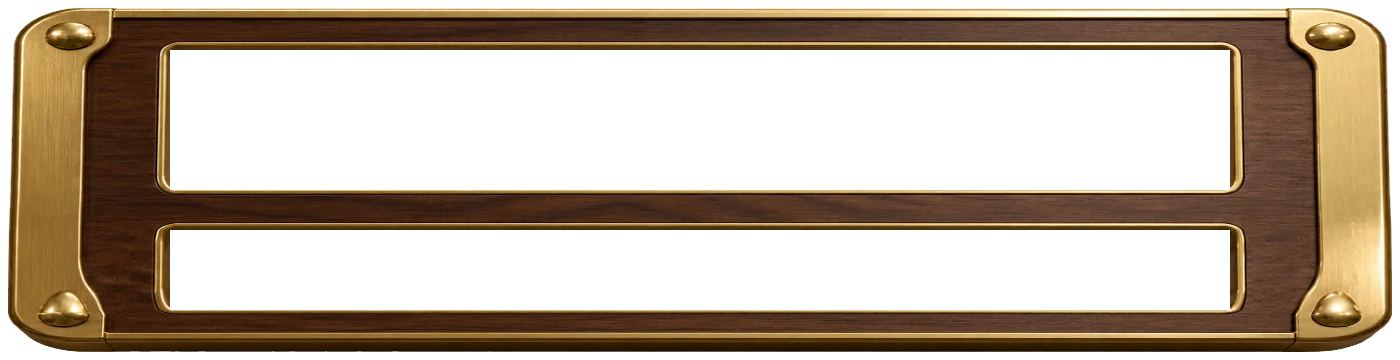
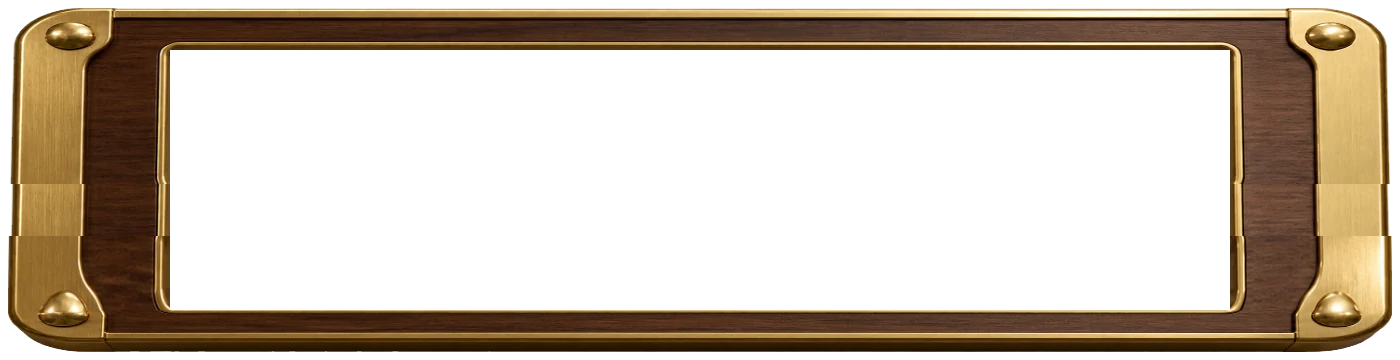
In play: cue follow-through, a raised cue that looks raised, view keys, one-channel gauge, dial clicks
- After the hit the cue carries on through where the ball was for a moment, then is
  lifted away; a raised cue stops above the cloth.
- From above, a raised cue (masse, jump) is now really raised in perspective - its butt
  nearer the eye and wider - only shortened so it stays near the table; its shadow
  falls away and fades.
- Under the 3D knob: 2D (straight down) and the player's eye (low behind the cue ball,
  following the aim; dragging turns it into the free look).
- The gauge's two windows are one: the lit meter fills it and the cue lies in it with
  its chalked tip in view. The fine-aim drum is taller and clicks for every ridge.

Claude-Session: https://claude.ai/code/session_01DzxiQebW6t4iT9hZUZYbBt

Changed region(s): [[0.0921, 0.4889, 1.0, 0.6722], [0.0, 0.4889, 0.0614, 0.6722]]

diff --git a/web/scene.js b/web/scene.js
@@ -731,10 +731,12 @@ function createScene(canvas, app, PH) {
   }
   function orbitBy(dx, dy) {
     if (!orbit.on) return;
+    if (orbit.cam && orbit.cam.eye) { orbit.az = orbit.cam.az - (portrait ? -Math.PI / 2 : 0); orbit.zoom = 0.8; orbit.cam = null; if (onFree) onFree(); }   // (dragging the view leaves the player's eye for a free look)
     orbit.az -= dx * 0.0034; orbit.elTo = orbit.el = Math.max(0.3, Math.min(1.42, orbit.el + dy * 0.0028)); orbit.live = 4; applyCamera();
   }
   // A camera placed by a script (the highlight reel): az is the compass direction the camera sits in, el its height angle,
   // zoom < 1 is closer than "whole table in view", and it looks at the table point (tx, ty).
+  let onFree = null;
   function setCam(c) { orbit.on = true; orbit.cam = c; orbit.el = orbit.elTo = c.el; orbit.live = 4; applyCamera(); }
   // where table points are on the screen, in pixels from the top-left of the game area (for overlays drawn on top of the
   // 3D picture): call begin() once, then at() for each point, which says whether the point is in front of the camera
@@ -895,20 +897,25 @@ function createScene(canvas, app, PH) {
     const c = w.balls[w.cue];
     if (trailTick(c, R, dt)) dirty = Math.max(dirty, 2);
     cue.visible = cueShadow.visible = v.showCue && c.on; guide.visible = v.showGuide && c.on;
+    // the follow-through after a hit: the cue is drawn from where the ball was struck, carrying on past it (v.follow)
+    const fo = v.follow; if (fo) { cue.visible = cueShadow.visible = !!v.showCue; guide.visible = false; }
     if (cue.visible) {
-      const dx = Math.cos(v.aim), dy = Math.sin(v.aim);
+      const dx = Math.cos(v.aim), dy = Math.sin(v.aim), cx0 = fo ? fo.x : c.x, cy0 = fo ? fo.y : c.y, pullV = fo ? fo.pull : v.pull, spinV = fo ? fo.spin : v.spin;
       // raised for a masse or a jump: the butt comes up and the tip comes down onto the top of the ball
-      const e = v.el || 0, ce = Math.cos(e), se = Math.sin(e);
-      const tx = c.x - dx * ce * (R + v.pull), ty = c.y - dy * ce * (R + v.pull);
+      const e = fo ? fo.el : v.el || 0, ce = Math.cos(e), se = Math.sin(e);
+      const tx = cx0 - dx * ce * (R + pullV), ty = cy0 - dy * ce * (R + pullV);
       // Seen from straight above, a cue that is really tilted leans away across the picture (the butt is much nearer the eye),
       // so there it is drawn lying flat and shortened, the way it would look with no perspective; in the 3D views it is truly raised.
       // The cue is drawn at its angle with a small lean for looks (the ordinary stroke is a level 0), and moved sideways and
       // up or down, staying parallel, to the point on the ball that the spin setting says it strikes.
-      const off = v.spin.x * 0.5 * R, lift = v.spin.y * 0.5 * R * ce, px = tx + dy * off, py = ty - dx * off;
-      if (orbit.on) { cue.scale.set(1, 1, 1); cue.position.set(px, py, R + lift + 0.002 + se * (R + v.pull)); cue.rotation.set(0, -Math.min(Math.PI / 2, 0.085 + e), v.aim + Math.PI); }
-      else { cue.scale.set(Math.max(0.16, ce), 1, 1); cue.position.set(px, py, R + lift + 0.002); cue.rotation.set(0, -0.085, v.aim + Math.PI); }
-      const sx = px - dx * 0.735 * ce + 0.012, sy = py - dy * 0.735 * ce - 0.014;
-      cueShadow.position.set(sx, sy, 0.0012); cueShadow.rotation.z = v.aim; cueShadow.scale.set(1.47 * Math.max(0.12, ce), 0.022, 1);
+      const off = spinV.x * 0.5 * R, lift = spinV.y * 0.5 * R * ce, px = tx + dy * off, py = ty - dx * off;
+      // From above, a raised cue is raised too, in true perspective (the butt nearer the eye, so wider), only shortened so its
+      // butt stays within a third of a metre of the cloth; its shadow lies on the cloth below and falls away from it.
+      const kl = orbit.on || e < 0.03 ? 1 : Math.min(1, 0.32 / (1.47 * se));
+      if (orbit.on || e >= 0.03) { cue.scale.set(kl, 1, 1); cue.position.set(px, py, R + lift + 0.002 + se * (R + pullV)); cue.rotation.set(0, -Math.min(Math.PI / 2, (e < 0.03 ? 0.085 : 0) + e), v.aim + Math.PI); }
+      else { cue.scale.set(1, 1, 1); cue.position.set(px, py, R + lift + 0.002); cue.rotation.set(0, -0.085, v.aim + Math.PI); }
+      const half = 0.735 * kl * ce, sx = px - dx * half + 0.012 + 0.025 * se, sy = py - dy * half - 0.014 - 0.025 * se;
+      cueShadow.position.set(sx, sy, 0.0012); cueShadow.rotation.z = v.aim; cueShadow.scale.set(1.47 * kl * Math.max(0.12, ce), 0.022 * (1 + 0.5 * se), 1); cueShadow.material.opacity = 0.22 * (1 - 0.55 * se);   // (a raised cue's shadow is fainter)
     }
     if (guide.visible) {
       const gl = v.level, chosen = v.power > 0;
@@ -1007,6 +1014,7 @@ function createScene(canvas, app, PH) {
   }
 
   return {
+    set onFreeLook(f) { onFree = f; }, get eyeView() { return !!(orbit.cam && orbit.cam.eye); },
     setTable, setCloth, setCue, setBalls, setTrail, ballPortrait, setBackdrop, setZone, setMarks, fly, setOrbit, setCam, proj, orbitBy, zoomBy, get orbiting() { return orbit.on; }, setInsets, tableRect, tableOutline, setDeskLight, setQuality, resize, toTable, frame, fall,
     invalidate() { dirty = 3; }, clearFalls() { falls.length = 0; fallEvents.length = 0; dirty = 3; }, fallEvents, get ppm() { return ppm; }, get portrait() { return portrait; }, get falling() { return falls.length > 0; },
     get pixelRatio() { return renderer.getPixelRatio(); },

diff --git a/web/head.html b/web/head.html
@@ -1319,6 +1319,25 @@ button:focus-visible,input:focus-visible{outline:2px solid var(--acc);outline-of
 #app.desk .dk-card{box-shadow:inset 0 -5px 0 -1px var(--rc)}
 #app.desk .dk-card.r5{box-shadow:inset 0 -5px 0 -1px #ff8a5c}
 #app.desk .dk-card.r1::before{background:linear-gradient(to top,rgba(110,180,255,.85) 0%,rgba(110,180,255,.35) 30%,transparent 62%)}
+/* the power gauge, one channel: the lit meter fills the whole window and the cue lies in it, its chalked tip showing at
+   the top (the housing's two windows made one, ui/gauge*.webp) */
+#app.desk #power::before{inset:45px auto 45px 13px;width:70px}
+#app.desk #power::after{background:url(ui/gauge-glass.webp) 13px 45px/70px calc(100% - 90px) no-repeat}
+#app.desk #powerCue{left:50%;width:19px}
+#app.desk.portrait #power::before{inset:10px 34px auto 34px;height:52px;width:auto}
+#app.desk.portrait #power::after{background:url(ui/gauge-glass-h.webp) 34px 10px/calc(100% - 68px) 52px no-repeat}
+#app.desk.portrait #powerCue{top:50%;height:19px}
+/* the fine-aim drum, taller */
+#app.desk #fine{height:380px;margin-top:-190px}
+#app.desk.compact:not(.portrait) #fine{height:260px;margin-top:-130px}
+/* the view keys under the 3D knob: straight down (2D) and the player's eye behind the cue ball */
+#views{display:none}
+#app.desk #views{position:fixed;right:12px;top:76px;display:flex;flex-direction:column;gap:10px;z-index:5}
+#app.desk #views .btn{width:48px;height:48px;border:0;border-radius:50%;background:url(ui/knob.webp) center/100% 100% no-repeat;color:#f1dca6;box-shadow:-3px 5px 8px rgba(0,0,0,.45)}
+#app.desk #views .btn[aria-pressed="true"]{background-image:url(ui/knob-press.webp);color:#ffd46b}
+#app.desk.compact #views{top:64px;gap:8px}#app.desk.compact #views .btn{width:42px;height:42px}
+#app.desk.portrait #views{top:calc(var(--hud-h) + 40px);right:8px}
+#app:not(.desk) #views,#hud[hidden] #views{display:none}
 </style>
 
 <div id="app" class="desk busy boot" data-theme="dark">
@@ -1350,6 +1369,10 @@ button:focus-visible,input:focus-visible{outline:2px solid var(--acc);outline-of
     <div class="pill r two" id="p1"><i class="av">2</i><div class="who"><span class="nm"></span><span class="sub"></span></div><div class="tray"></div><div class="pts"></div></div>
     <div id="pracBar" hidden></div>
     <button class="btn icon" id="viewBtn" aria-label="3D로 둘러보기" aria-pressed="false"><svg width="19" height="19" viewBox="0 0 24 24" fill="none" stroke="currentColor" stroke-width="1.9" stroke-linejoin="round" stroke-linecap="round"><path d="M12 3l8 4.5v9L12 21l-8-4.5v-9z"/><path d="M4 7.5l8 4.5 8-4.5M12 12v9"/></svg></button>
+    <div id="views" aria-label="시점">
+      <button class="btn icon" id="topBtn" aria-label="위에서 보기 (2D)" aria-pressed="true"><svg width="20" height="20" viewBox="0 0 24 24" fill="none" stroke="currentColor" stroke-width="1.9" stroke-linejoin="round"><rect x="4" y="6" width="16" height="12" rx="2"/><circle cx="10" cy="12" r="1.6" fill="currentColor"/><circle cx="15" cy="10" r="1.6" fill="currentColor"/></svg></button>
+      <button class="btn icon" id="eyeBtn" aria-label="선수 시점" aria-pressed="false"><svg width="20" height="20" viewBox="0 0 24 24" fill="none" stroke="currentColor" stroke-width="1.9" stroke-linecap="round" stroke-linejoin="round"><path d="M2.5 12s3.5-6 9.5-6 9.5 6 9.5 6-3.5 6-9.5 6-9.5-6-9.5-6z"/><circle cx="12" cy="12" r="2.6"/></svg></button>
+    </div>
   </header>
 
   <div id="toast" role="status" aria-live="polite"></div>

diff --git a/web/app/90-loop.js b/web/app/90-loop.js
@@ -65,14 +65,26 @@ function frame(now) {
   requestAnimationFrame(frame);
   const dt = Math.min(0.1, (now - lastT) / 1000 || 0); lastT = now;
   const paused = !$('#sheet').hidden;
-  let animating = false, alpha = 1, pull = 0.03 + st.power * 0.2, clip = null;
+  let animating = false, alpha = 1, pull = 0.03 + st.power * 0.2, clip = null, follow = null;
   if (!paused) {
     if (st.phase === 'auto') { autoTick(dt); animating = true; }
-    shotClock(dt);
+    shotClock(dt); eyeTick();
     if (st.phase === 'strike') {
       const ca = st.cueAnim; ca.t += dt; animating = true;
       const k = Math.min(1, ca.t / 0.1); pull = ca.from * (1 - k * k) - 0.004 * k;
-      if (ca.t >= 0.1) { const c = game.cueBall(); aheadStart(ca); st.simTick = 0; game.P.strike(game.world, st.aim, ca.V, ca.a, ca.b, ca.el); if (!flow.quiet) SND.cue(ca.V, panOf(c.x, c.y)); st.phase = 'sim'; acc = 0; st.settle = 0; st.power = 0; setPowerUI(0); }
+      if (ca.t >= 0.1) { const c = game.cueBall(); st.follow = { t: 0, x: c.x, y: c.y, V: ca.V, el: ca.el || 0, spin: { x: st.spin.x, y: st.spin.y } }; aheadStart(ca); st.simTick = 0; game.P.strike(game.world, st.aim, ca.V, ca.a, ca.b, ca.el); if (!flow.quiet) SND.cue(ca.V, panOf(c.x, c.y)); st.phase = 'sim'; acc = 0; st.settle = 0; st.power = 0; setPowerUI(0); }
+    }
+    // follow-through: for a moment after the hit the cue carries on through where the ball was, then is lifted away
+    if (st.follow && (st.phase === 'sim' || st.phase === 'hold')) {
+      const f = st.follow; f.t += Math.max(0, dt);
+      if (f.t > 0.42) st.follow = null;
+      else {
+        const R = game.P.R, se = Math.sin(f.el), lift = f.spin.y * 0.5 * R * Math.cos(f.el);
+        let reach = Math.min(0.11, 0.025 + f.V * 0.014);
+        if (se > 0.05) reach = Math.min(reach, Math.max(0, (R + lift - 0.006) / se - R));   // (a raised cue stops above the cloth)
+        const k = Math.min(1, f.t / 0.11), ease = 1 - (1 - k) * (1 - k);
+        follow = { x: f.x, y: f.y, pull: -0.004 - reach * ease, el: f.el, spin: f.spin };
+      }
     }
     if (st.phase === 'sim') { alpha = stepSim(dt); animating = true; if (st.phase !== 'sim') { SND.rolling(0); bolts.set(false); } }
     else if (st.phase === 'reel') { clip = reel.tick(dt); animating = true; if (clip) { alpha = clip.alpha; pull = clip.pull; } }
@@ -82,7 +94,7 @@ function frame(now) {
   const lined = st.phase === 'aim' || (st.phase === 'auto' && !!st.auto && !!st.auto.plan);
   const drew = scene.frame({
     game, alpha, aim: st.aim, power: st.power, pull, spin: st.spin, el: st.phase === 'strike' && st.cueAnim ? st.cueAnim.el : st.el, rev: st.rev, animating,
-    showCue: clip ? clip.cue : lined || st.phase === 'strike' || st.phase === 'idle', showGuide: lined, level: flow ? flow.guide() : 0, aimStyle: prefs.aim,
+    follow, showCue: clip ? clip.cue : lined || st.phase === 'strike' || st.phase === 'idle' || !!follow, showGuide: lined, level: flow ? flow.guide() : 0, aimStyle: prefs.aim,
     legalIds: st.screen === 'play' ? legalNow() : NONE, hand: !!game.placing && st.phase === 'aim',
   }, dt);
   drainFalls();

diff --git a/web/app/70-buttons.js b/web/app/70-buttons.js
@@ -1,12 +1,31 @@
 /* ================= buttons ================= */
 press('#menuBtn', sheetPause);
 // look round in 3D and back: while it is on, dragging the table turns the view instead of aiming
-function setView3D(on) {
-  if (scene.orbiting === on) return;
-  scene.setOrbit(on); $('#viewBtn').setAttribute('aria-pressed', String(on)); drag = null; orbitPts.clear();
-  if (on) toast('큐를 잡고 끌면 조준, 빈 곳을 끌면 시점 회전, 두 손가락으로 확대·축소. 버튼을 다시 누르면 위에서 보는 화면으로 돌아옵니다.', '', 4800);
+// The views: straight down (2D), a free look round in 3D, and the player's eye - low behind the cue ball along the aim,
+// following the aim and the cue ball. While a 3D view is on, dragging the table turns the view instead of aiming
+// (dragging the eye view turns it into the free look).
+let viewMode = 'top';
+const eyeCam = () => { const c = game.cueBall(), a = st.aim; return { eye: true, az: Math.atan2(-Math.cos(a), Math.sin(a)), el: 0.3, zoom: 0.42, tx: c.x + Math.cos(a) * 0.3, ty: c.y + Math.sin(a) * 0.3 }; };
+function paintViews() { $('#viewBtn').setAttribute('aria-pressed', String(viewMode === 'free')); $('#topBtn').setAttribute('aria-pressed', String(viewMode === 'top')); $('#eyeBtn').setAttribute('aria-pressed', String(viewMode === 'eye')); }
+function setView(m) {
+  if (m === viewMode && m !== 'eye') return;
+  drag = null; orbitPts.clear(); viewMode = m;
+  if (m === 'top') scene.setOrbit(false);
+  else if (m === 'free') { scene.setOrbit(true); toast('큐를 잡고 끌면 조준, 빈 곳을 끌면 시점 회전, 두 손가락으로 확대·축소.', '', 3600); }
+  else { if (!scene.orbiting) scene.setOrbit(true); scene.setCam(eyeCam()); eyeKey = ''; }
+  paintViews();
 }
-press('#viewBtn', () => setView3D(!scene.orbiting));
+const setView3D = on => setView(on ? 'free' : 'top');
+let eyeKey = '';
+// called every frame: the eye view keeps behind the cue ball as the aim turns (not while the balls run)
+function eyeTick() {
+  if (viewMode !== 'eye' || !scene.eyeView || (st.phase !== 'aim' && st.phase !== 'auto')) return;
+  const c = game.cueBall(), k = st.aim.toFixed(4) + c.x.toFixed(3) + c.y.toFixed(3); if (k === eyeKey) return; eyeKey = k; scene.setCam(eyeCam());
+}
+scene.onFreeLook = () => { viewMode = 'free'; paintViews(); };
+press('#viewBtn', () => setView(viewMode === 'free' ? 'top' : 'free'));
+press('#topBtn', () => setView('top'));
+press('#eyeBtn', () => setView('eye'));
 press('#againBtn', () => match.start(st.lastLoser == null ? 0 : st.lastLoser));
 press('#homeBtn', () => goHome());
 // the best shot of the match, played again as an edited clip

diff --git a/web/app/80-input.js b/web/app/80-input.js
@@ -114,6 +114,9 @@ canvas.addEventListener('pointerup', endDrag); canvas.addEventListener('pointerc
     if (id !== e.pointerId) return; const d = pos(e) - last; last = pos(e);
     st.aim += d * 0.0009 * (scene.portrait ? -1 : 1); off += d;
     box.style.backgroundPosition = scene.portrait ? `${off}px 0` : `0 ${off}px`; dialPh += d; drawDial(); scene.invalidate();
+    // a click for every ridge that rolls past the pointer, softer and quicker the faster it turns (at most one a frame)
+    const step = (box.querySelector('canvas.dial') || box).clientHeight * Math.PI / 56 || 8, n = Math.floor(dialPh / step);
+    if (n !== dialN) { dialN = n; SND.dial(Math.abs(d) / 20); }
   });
   const up = e => { if (id === e.pointerId) { id = null; ctlUp(); } };
   box.addEventListener('pointerup', up); box.addEventListener('pointercancel', up);
@@ -121,7 +124,7 @@ canvas.addEventListener('pointerup', endDrag); canvas.addEventListener('pointerc
 /* The fine-aim dial (on the desk): a knurled rubber drum turning in its walnut slot, drawn as a real cylinder - its ridges
    crowd together towards its edges and it darkens away from the light (upper right), with brass flanges at both ends.
    dialPh is how far it has been rolled, in pixels at its face. */
-let dialPh = 0;
+let dialPh = 0, dialN = 0;
 function drawDial() {
   const box = $('#fine'); if (!deskOn()) return;
   let cv = box.querySelector('canvas.dial'); if (!cv) { cv = el('canvas', { class: 'dial' }); box.appendChild(cv); }

diff --git a/web/app/10-ui.js b/web/app/10-ui.js
@@ -94,7 +94,7 @@ if (window.ResizeObserver) new ResizeObserver(layoutSoon).observe(app);
 
 function setPowerUI(p) {
   // the cue sits against the ball at 0 and is drawn back along the track as the power rises
-  const tr = $('#power'), c = $('#powerCue'), REST = 10, END = 70;
+  const tr = $('#power'), c = $('#powerCue'), dk = deskOn(), REST = dk ? (scene.portrait ? 36 : 48) : 10, END = dk ? (scene.portrait ? 40 : 52) : 70;   // (on the desk: clear of the gauge's end caps, so the chalked tip shows)
   $('#powerNum').textContent = p > 0 ? Math.max(1, Math.round(p * 100)) : 0;
   if (scene.portrait) c.style.transform = `translate(${REST + p * Math.max(0, tr.clientWidth - REST - END)}px,-50%)`;
   else c.style.transform = `translate(-50%,${REST + p * Math.max(0, tr.clientHeight - REST - END)}px)`;
